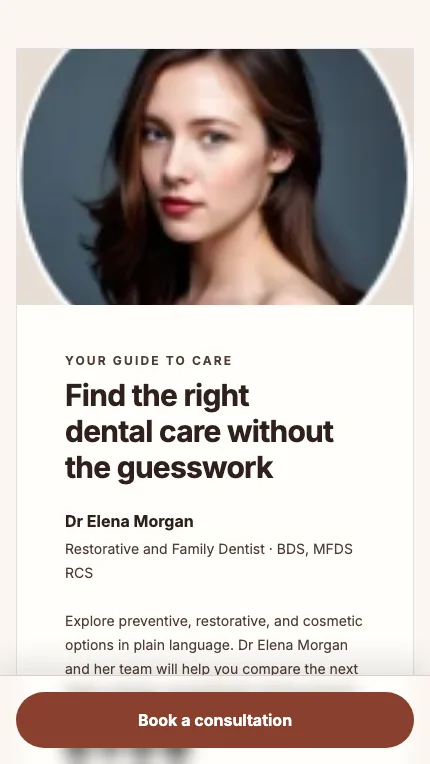
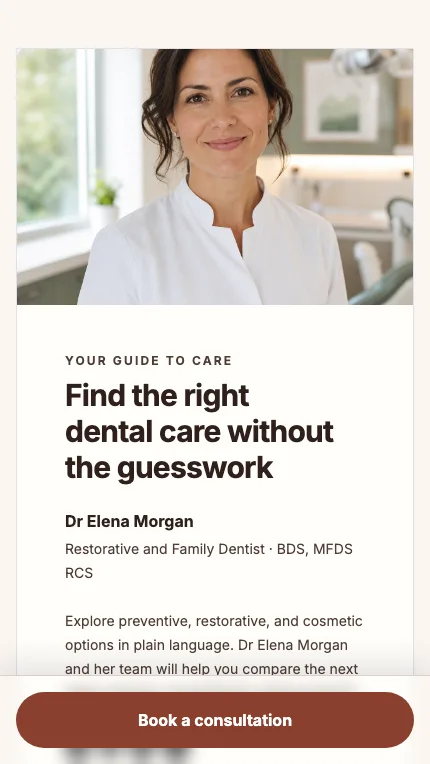
fix: use distinct services showcase media

Changed region(s): [[0.0302, 0.0602, 0.9674, 0.4215]]

diff --git a/e2e/public-profile-services-catalogue-template.spec.ts b/e2e/public-profile-services-catalogue-template.spec.ts
@@ -27,12 +27,21 @@ for (const viewport of [
         level: 1,
       }),
     ).toBeVisible();
-    await expect(
-      template
-        .locator("section")
-        .first()
-        .getByRole("img", { name: "Portrait of Dr Elena Morgan" }),
-    ).toHaveAttribute("src", /services-catalogue-profile\.webp/);
+    const heroPortrait = template
+      .locator("section")
+      .first()
+      .getByRole("img", { name: "Portrait of Dr Elena Morgan" });
+    await expect(heroPortrait).toHaveAttribute(
+      "src",
+      /profile-pics.*services-catalogue-profile-v2\.webp/,
+    );
+    await expect
+      .poll(() =>
+        heroPortrait.evaluate((image) =>
+          image instanceof HTMLImageElement ? image.naturalWidth : 0,
+        ),
+      )
+      .toBeGreaterThanOrEqual(1_000);
 
     const overflow = await page.evaluate(() => ({
       body: document.body.scrollWidth,
@@ -105,6 +114,25 @@ for (const viewport of [
       "data-link-image-variant",
       "none",
     );
+    const financeImage = resourceCards.nth(0).locator("img");
+    const teamImage = resourceCards.nth(1).getByRole("img", {
+      name: "Portrait of Dr Elena Morgan",
+    });
+    await expect(financeImage).toHaveAttribute(
+      "src",
+      /link-images.*services-catalogue-finance\.webp/,
+    );
+    await expect(teamImage).toHaveAttribute(
+      "src",
+      /profile-pics.*services-catalogue-profile-v2\.webp/,
+    );
+    await expect
+      .poll(() =>
+        financeImage.evaluate((image) =>
+          image instanceof HTMLImageElement ? image.naturalWidth : 0,
+        ),
+      )
+      .toBe(1_024);
 
     const mapButton = page.getByRole("button", { name: "View map" });
     await mapButton.scrollIntoViewIfNeeded();
